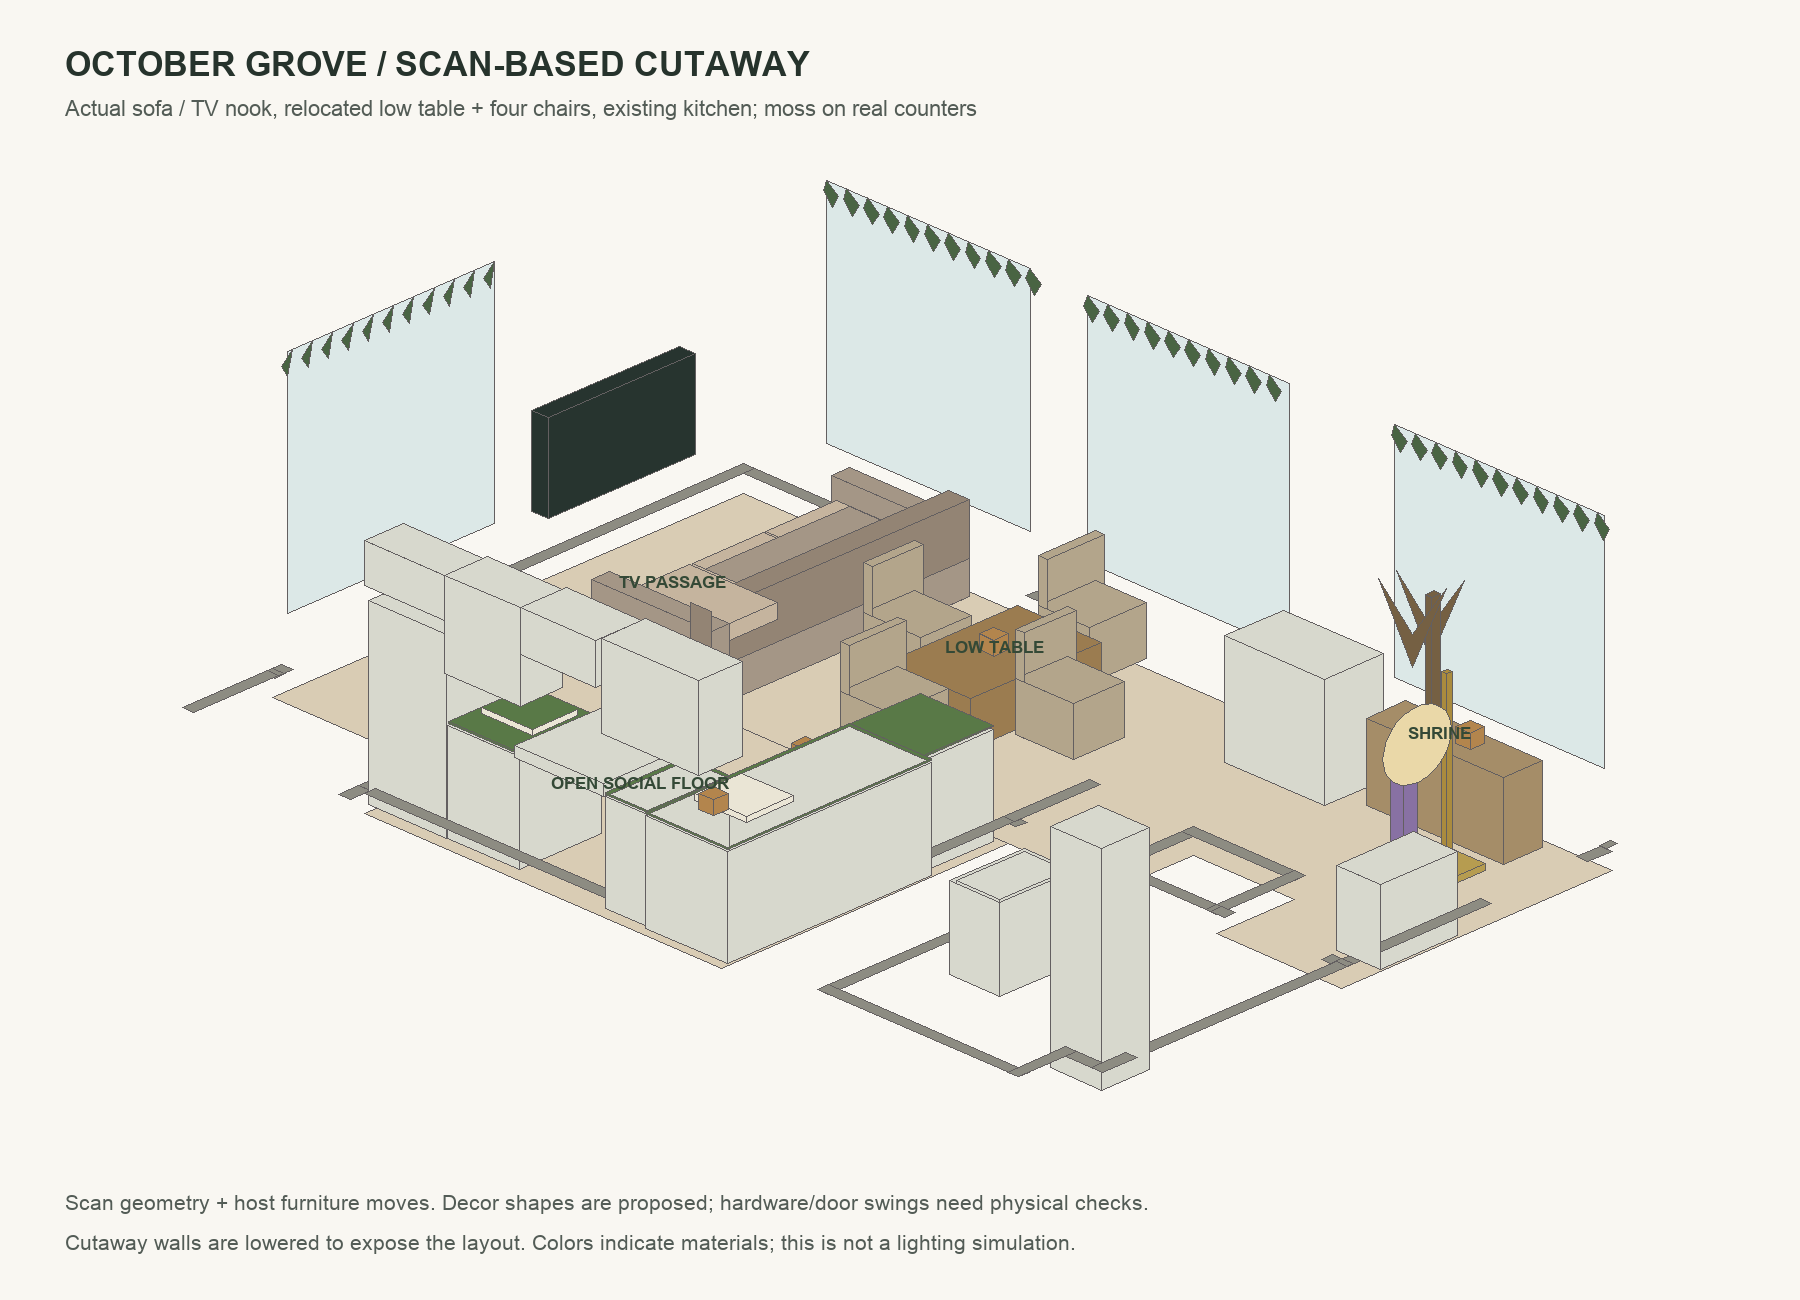
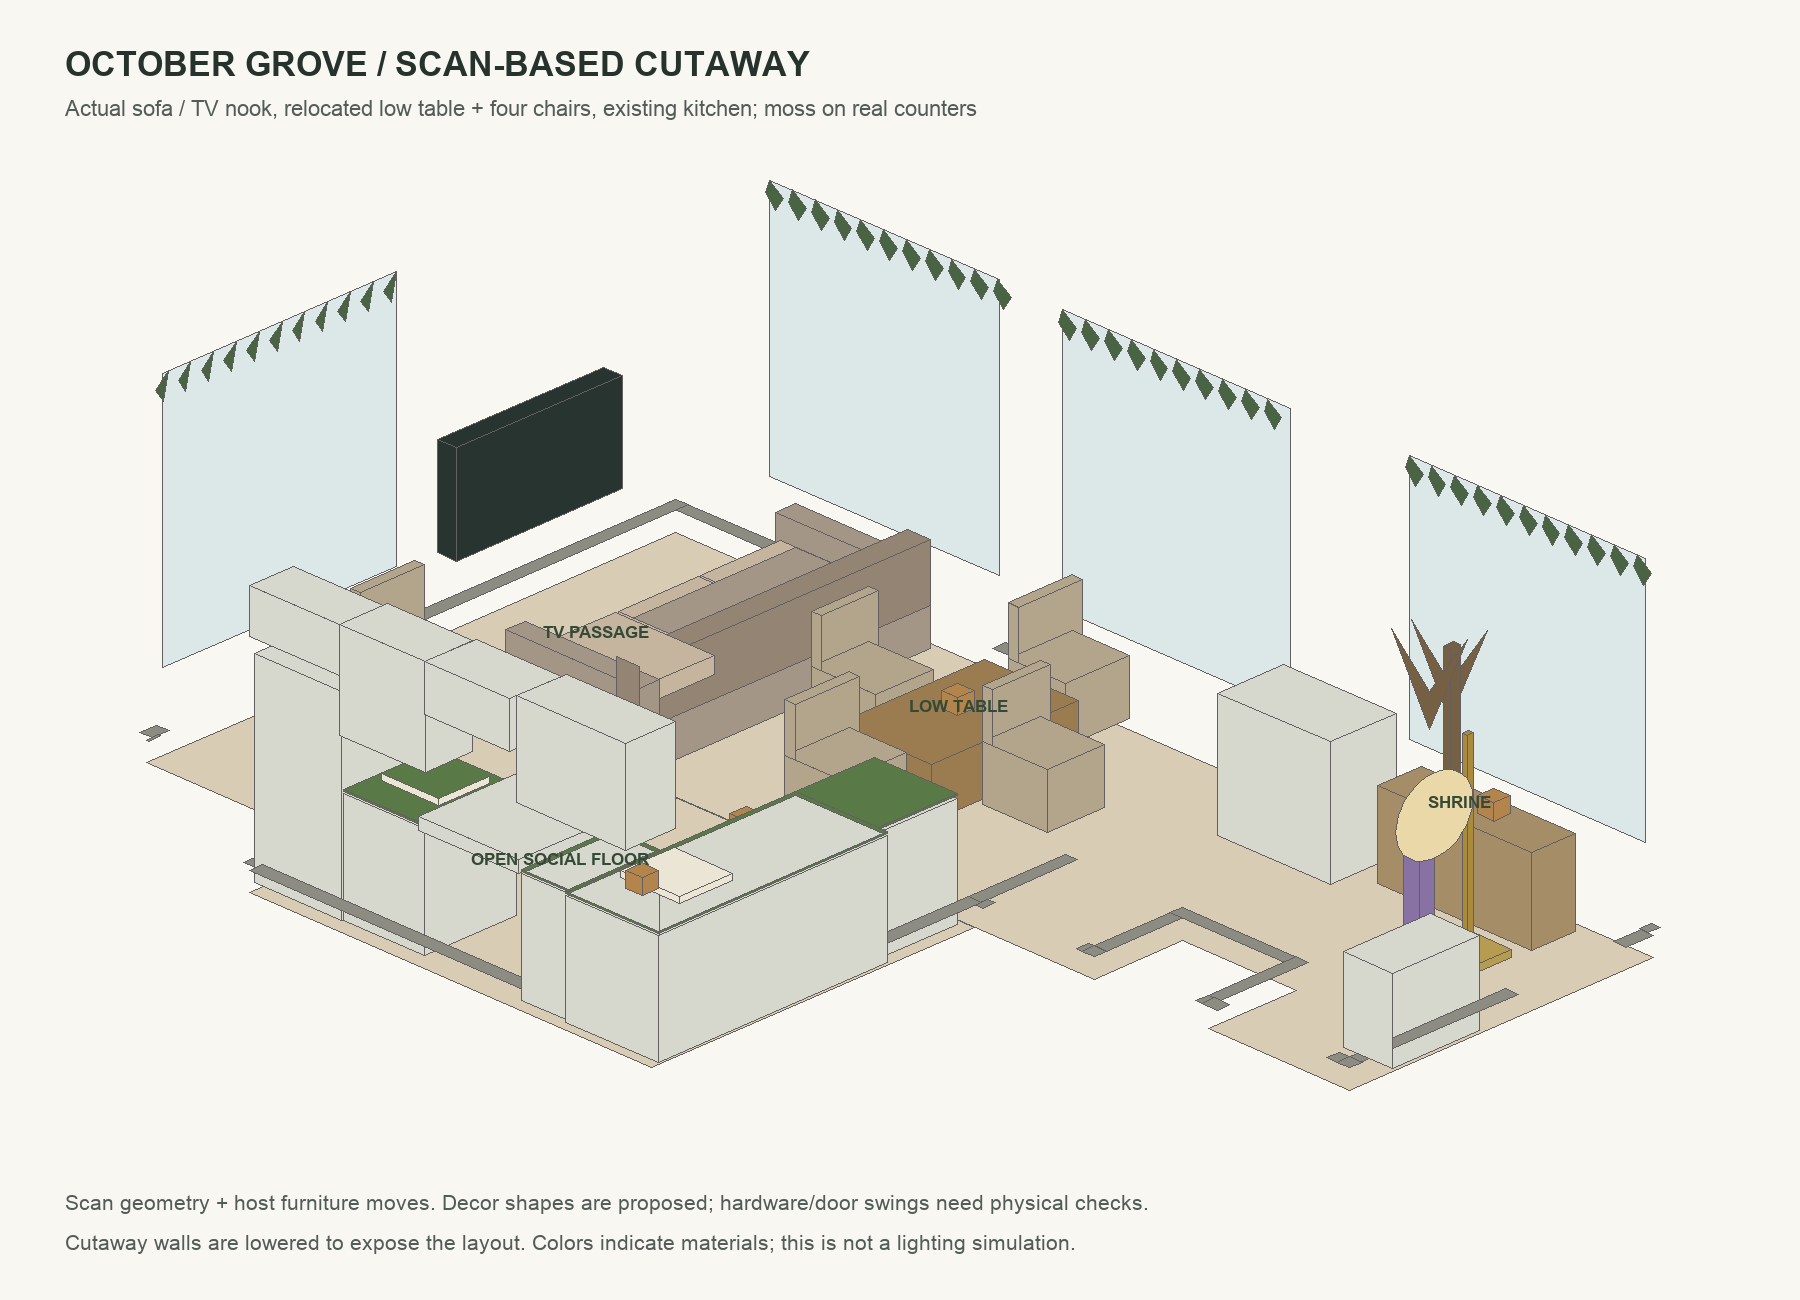
Reconcile decor budget and entity placements with the measured layout

Changed region(s): [[0.0622, 0.1231, 0.9333, 0.8615]]

diff --git a/operations/decisions.md b/operations/decisions.md
@@ -1,12 +1,14 @@
 # Decision log and open questions
 
-## October 21 • house decor execution proposal
+## October 21 • current house decor decisions and proposal
 
-Host requested a dedicated decor session, initial input then autonomous goal work, with shopping links and optional iPhone scan input. Goal activated in that session. **Confirmed host intake:** $1,000 decor including permanent lights; nothing new ordered; gold lamp/stand with full-color LIFX is the only decor inventory; furniture may move but stays inside the apartment, nightstands may enter closets; 2–4 full days; iPhone 16 Pro. Helpers not confirmed, room dimensions/photos pending. Existing Grove/Hollow/Moon Well direction preserved; no individual product purchase approval inferred.
+**Confirmed host instructions:** $1,000 decor including permanent lights; no new orders; gold tree/full-color LIFX is the only owned decor; 2–4 full days. Dining-height table is gone; coffee table goes to its former place with chairs around it, sofa closer to TV with walking gap. Accepted Hollow rear-right corner: upright bed at **15-in stored depth**, independent guardian, **49 × 29.5-in automated desk**, two speakers on desk, **no human DJ**. Bed support/leg removal remain physical dependencies, not a verified installation.
 
-[Current provisional plan](../decor/final-room-plan.md), [single $973.12 example basket](../decor/shopping-ready.md) and [Oct 21–30 schedule](../decor/setup-schedule.md) include one permanent Govee Basic + owned LIFX for purple, one bedroom two-PAR kit, a properly mounted moon or lightweight fallback, limited fabric and dry Moon Well. Keep bed flat absent proven internal storage. [Capture workflow](../decor/space-inputs/README.md): Polycam Floorplan on supported iPhone 16 Pro, dimensioned view/photos/furniture sizes; Floorplanner recommended for scaled 2D/3D layout comparisons. No account/model upload performed.
+**Latest fabric instruction:** buy **raw fabric, not ready-made curtains**, cover **all Hollow walls/windows**. Grove counters broadly covered in moss, with clean serving surfaces integrated; hanging vines, branches, stone and pumpkins. Host says visual decisions must follow the real apartment layout; generated atmospheric rooms are material/light references only.
 
-Fresh evidence: Oasis expanded specs now say 1000 K “Pure Red”–4000 K, not the old 2000–4000 K range; purple still not documented. Rose Brand 8 oz duvetyne is masking, not guaranteed blackout. See's coins and the checked LIFX 800-lm two-pack are sold out. These are sourcing findings, not changes to host preferences. No purchase, installation, device setting, third-party message or game implementation performed.
+[Current plan and actual-layout cutaways](../decor/final-room-plan.md), [single $991.98 basket](../decor/shopping-ready.md), [40-yd full-wall cut list](../decor/bedroom/draping/02-shopping-and-sample.md), [setup](../decor/setup-schedule.md). Proposal includes Big Z black plush velvet, large moss sheets/84-ft ivy, two sound-active PARs, one permanent Govee Basic + owned LIFX, handmade glowing Grove moon and dry Moon Well. Fabric shipping/opacity/mounts, upright-bed support, actual clearances and light/music modes still need physical checks.
+
+All 15 game entities have proposed locations: **11 Grove / 3 Hollow / 1 outside bath**, preserving five decor/five bought/five handmade. No game rules/code/IDs changed; incremental physical game costs remain separate. Raw scan processed locally without paid floor-plan export, new account or model upload. Read-only Chrome/primary-source offer checks and built-in image generation performed; no purchases, cart changes, messages, device changes or physical tests. [Task handoff](../decor/handoff-2026-10-21-detailed-decor.md).
 
 **Latest interactive decisions are recorded in the September 9 website entry below; September 4 remains the mechanics baseline.** Earlier dated succession notes remain history; use the [current design index](../interactive-game/README.md) for active requirements.
 Updated September 3, 2026. This file preserves context between sessions.

diff --git a/operations/task-tracker.md b/operations/task-tracker.md
@@ -2,17 +2,17 @@
 
 ## October 21 • decor execution status
 
-The [current decor basket](../decor/shopping-ready.md), [room plan/schematic](../decor/final-room-plan.md) and [Oct 21–30 setup schedule](../decor/setup-schedule.md) supersede September decor shopping deadlines below. Host confirms $1,000 including permanent lights, owned color LIFX only, no new orders, furniture staying inside, 2–4 full days and iPhone 16 Pro. Planning example $973.12; no purchases/tests. Room capture, measured quantities and mount/power tests remain pending.
+[Current plan / actual scan layout](../decor/final-room-plan.md), [single $991.98 basket](../decor/shopping-ready.md), [setup](../decor/setup-schedule.md), [handoff](../decor/handoff-2026-10-21-detailed-decor.md) supersede old decor quantities/deadlines below. Host ceiling $1,000 includes permanent lights. Plans/visuals/sourcing complete; no purchases/physical tests.
 
-| Task | Current status / next action | Revised target |
+| Task | Current status / next action | Target |
 |---|---|---|
-| SHOP-01 / SET-02 | Current offers, explicit shared allocations, costed provisional core and substitutions prepared | Oct 21 planning done; quantities still conditional |
-| OPS-01 / BUD-01 / SHOP-02 | Decor inventory/ceiling/time/furniture constraints confirmed; [Polycam + Floorplanner capture packet](../decor/space-inputs/README.md) ready. Geometry/household supplies/helper availability remain | Oct 21–22 room capture |
-| SHOP-03 / DRAPE-01–04 | Per-run formulas ready; actual spans/drop/wall finish/panel trial not done | Resolve Oct 23–24 |
-| LIGHT-LR / LIGHT-BED / BATH-08 | Proposed fixtures and fallback/reset tests documented; no test passed yet | Initial trials Oct 22–24, nine-hour run by Oct 25 |
-| BED-01 / PROP-01 | Keep-flat bed default; modest guardian bust or light-board fallback, support still unknown | Resolve by Oct 26 |
-| SHOP-04 / BUY-01 | Host orders after reviewing fit/inventory; recheck live sellers and delivered totals | Prefer receipt Oct 27; local fallback Oct 29 |
-| SET-03 | Staged scenic install, final routes and after-dark rehearsal | Oct 29–30 |
+| SHOP-01 / SET-02 | Detailed three-room plan, measured party layout/cutaways, all-15-entity placement and costed basket complete | Oct 21 planning done |
+| OPS-01 / BUD-01 / SHOP-02 | Scan processed; host furniture moves mapped. Tape scale, closet fit, outlets, actual wall/tub surfaces and household supplies remain | Oct 22–24 physical checks |
+| SHOP-03 / DRAPE-01–04 | Raw black velvet all-wall 40-yd cut list/supports priced; no ready-made bedroom curtains. Actual drop/opacity/shipping/24-h sample trial remain | Resolve before cutting/order |
+| LIGHT-LR / LIGHT-BED / BATH-08 | Budget two-PAR sound mode, steady guardian eyes, permanent violet lamp and cordless bath tests documented, untested | Receipt / trials Oct 24–27; nine-hour elapsed run |
+| BED-01 / PROP-01 | Upright corner accepted for plan; support still unresolved. Independent 3–5-hour guardian bust or flat-face fallback | Resolve before moving bed |
+| SHOP-04 / BUY-01 | Host verifies actual delivered totals/stock/arrival and orders; no agent checkout | Receipt target Oct 27, local fallback Oct 29 |
+| SET-03 | Full-wall fabric, broad counter moss, vines, scenery + after-dark route/game reach/light rehearsal | 24–32 hands-on h across 3–4 days; complete Oct 30 |
 
 **September 4 interactive scope:** [Current story tracker](../interactive-game/task-tracker.md) governs the 15-entity 5/5/5 plan, puzzle-earned Favor, costume voting, Summons and finale. September 9: approved narrative and [first website rehearsal](../interactive-game/app/handoff-2026-09-09-first-build.md) are deployed; physical playtesting, shopping and final event/admin work remain future tasks. Earlier dated story updates below are history.
 Updated September 3, 2026. Event October 31. Owners below are proposed roles, not recruited people. Priority: P0 essential, P1 high value, P2 optional.

diff --git a/operations/budget.md b/operations/budget.md
@@ -2,9 +2,11 @@
 
 ## October 21 • current decor planning estimate
 
-Host confirmed **$1,000 decor ceiling including permanent lights**, only owned gold stand/full-color LIFX, no new decor orders, 2–4 full days and furniture remaining inside the apartment. Use the [current decor basket](../decor/shopping-ready.md), not September catalog totals. **$973.12 provisional cash envelope** = $547.83 core product counts + $191.13 **hypothetical measured-fabric package** + $85 local/reuse gaps + $74.16 planning tax allowance + $25 shipping + $50 buffer. Includes one permanent Govee Basic; dimensions/mounting tests remain pending. Products are proposed within the confirmed ceiling, not a delivered quote or purchase. Without fabric the estimate is $764.78 and coverage unresolved; smaller three-panel example $872.32. Only $26.88 remains beyond included buffer; use documented scope cuts if measured costs rise.
+Host confirmed **$1,000 decor ceiling including permanent lights**, only owned gold tree/full-color LIFX, no new decor orders and 2–4 full days. Dining table now gone; other furniture relocated inside. Use the [single current basket](../decor/shopping-ready.md): **$991.98 planning envelope** = $734.16 merchandise + $75 local/reuse gaps + $72.82 planning tax + $60 shipping + $50 buffer. **$8.02 remains beyond the included buffer.** Actual fabric shipping/arrival, mount trial and delivered total remain unverified; not a purchase or final quote.
 
-The selected scope replaces the old six decor categories totaling **$705**, rather than being added to them; its tax/shipping/buffer replace the corresponding share of common contingency/logistics. Current branch/skull replacements total $60.49 within the basket, not an extra $59.93 cart. Shared moon/tree/guardian/Well/shrine installations are counted once under decor; game pays incremental NFC/mounting and its own figures. Sweets stay within food; no whole-floor covering or permanent-light package is included. At the $3,000 total ceiling the full decor example leaves $2,026.88 for all other costs; the $1,800 baseline and costume allocation below still need an overall host reconciliation. [Room plan](../decor/final-room-plan.md) · [Setup schedule](../decor/setup-schedule.md).
+Includes 40 yd raw black velvet covering all Hollow walls/windows, 42 fabric hooks/48 clips, three broad counter moss sheets, hanging ivy, two budget PARs, one permanent Govee Basic plus owned LIFX, handmade light-backed Grove moon and Moon Well. Ready-made bedroom curtains and the earlier hypothetical $973.12 package are superseded. [Cut schedule](../decor/bedroom/draping/02-shopping-and-sample.md) · [Scan-based layout / 15 entities](../decor/final-room-plan.md) · [24–32-hour setup](../decor/setup-schedule.md).
+
+This **replaces** old six decor allowances totaling $705 and their tax/logistics/contingency share; do not add the historic $59.93 unpaid cart. Active branch + three pendants $38.94 are already included; wolf skull optional/excluded. Whole moon/tree/guardian/Well/shrine installations charged once; game pays small figures/tags/premade markers/incremental bases. Sweets remain food. At the $3,000 party ceiling, $2,008.02 remains for other costs. Costume and total-party allocation still require overall reconciliation; no additional permanent-light bundle, floor covering, premium rig or bed-support hardware silently added.
 
 ## October 21 • confirmed host costume ceiling
 

diff --git a/decor/handoff-2026-10-21-detailed-decor.md b/decor/handoff-2026-10-21-detailed-decor.md
@@ -13,3 +13,12 @@
 - Dependencies: game owns bought small figures/tags/premade stickers/bases/phone validation; scenery counted once in decor. Proposed allocation 11 Grove / 3 Hollow / 1 bath threshold preserves 5/5/5 identities. Music owns playback; no new control code. Food/supplies own wrapped gifts.
 - Unresolved physical cost risk: heavy bed support or a new drape rig is not silently funded; use reuse/flat-face guardian and documented scope cuts. Fabric shipping/opacity and actual delivered total not guaranteed.
 - Commits: focused main checkpoint(s) reported in final response; no push. Unrelated costume changes preserved.
+
+## Verification and checkpoint
+
+- Checkpoint **0bd00cb** on main saved the decor plan, basket, materials/atmospheric assets and scan-derived layout/cutaways. Final follow-up reconciles shared operations and physical-game placement crosslink, improves cutaway readability and records checks. Sibling costume commit **85fa015** preserved.
+- Local Markdown links checked across this task's changed documents; all 21 basket line calculations verified: $734.16 merchandise, $75 gaps, $72.82 planning tax, $60 shipping, $50 buffer = **$991.98**.
+- Fifteen unique entity slots checked, five in each category; coordinate markers count fifteen. Desk/bed bounds and 0.30-m guardian band checked against scan-based room bounds. This is geometry verification, not bed-support certification or an occupancy test.
+- SVG XML and all six selected PNG assets opened/verified; materials and room images visually inspected. Rejected AI layout edits are not selected/persisted as deliverables. Direct cutaways preserve real footprint; pale window planes and lowered walls expose the layout.
+- git diff --check passed. No raw GLB/screenshot or account UI image tracked. Actual shipping/arrival, opacity, bed/storage/mounting, electrical and nine-hour tests remain future host execution.
+- Shared changes: operations budget/decisions/cart/tracker; one physical/entity-plan.md distribution paragraph points to current measured proposal. No game code or costume content edited.

diff --git a/interactive-game/physical/entity-plan.md b/interactive-game/physical/entity-plan.md
@@ -44,7 +44,7 @@ Use the [bark-spirit texture techniques](moon-touchpoints.md) only as optional a
 
 The [figurine/base brief](figurine-construction.md) governs purchased-figure mounting; [separate moon touchpoints](moon-touchpoints.md) suit large decor and stick/straw pieces. Every entity gets one nearby, clear, reachable target. The golden lamp and powered DJ scenery need final-surface scan tests; an ordinary tag cannot be assumed to work against metal.
 
-Provisional distribution: **9 living-room checkpoints, 5 bedroom perimeter checkpoints and 1 outside the bathroom**. For example, living room: DEC-01/02/05, three bought and three made; bedroom: DEC-03, two bought and two made; bathroom threshold: DEC-04. This is a traffic-planning example, not a measured placement map. Rebalance after photos and a walk-through.
+**October 21 decor placement proposal:** [actual scan-based room plan and all fifteen positions](../../decor/final-room-plan.md#place-all-15-entities) now recommends **11 Grove / 3 Hollow / 1 outside bathroom**, preserving 5/5/5. Hollow contains DEC-03 plus flat MAKE-03/05 on independent wall mounts, minimizing extra stands/queues on its small dance floor. All five bought figures use existing dry Grove surfaces. This replaces the earlier illustrative 9/5/1 split; actual reach/scan/traffic tests remain pending. No game IDs, puzzles, purchases or NFC implementation changed.
 
 Keep all targets in public party areas, at a height reachable without bending into crowds or climbing. No targets in drawers, coats, bedding, medicine storage, drinks, electrical gear or behind furniture. Separate tags enough that one intentional tap has one destination. Provide simple helper assistance for unsupported phones; physical QR fallback remains excluded. Invitation QRs are a separate website feature.
 

diff --git a/operations/shopping/CART.md b/operations/shopping/CART.md
@@ -1,6 +1,6 @@
-# Wood and skull sample cart
+# Decor shopping status and historical wood/skull cart
 
-**October 21 current status:** use the [single current decor basket](../../decor/shopping-ready.md). **Host confirms nothing new ordered; only the gold lamp/stand with full-color LIFX is owned decor.** The branch/three raven skulls/wolf remain proposed at **$60.49 before tax** inside the basket. The signed-in Amazon cart badge showed zero; no cart changes/purchase made by this task. The September snapshot below is history, not a live cart or proof of ownership.
+**October 21 current:** [single detailed decor basket](../../decor/shopping-ready.md), **$991.98 planning envelope** including shipping/buffer. Host confirms no new orders, only gold tree/full-color LIFX owned. Active branch + three raven pendants **$38.94 before tax**, included once; wolf skull now optional/excluded. Raw black fabric covers all bedroom walls; no ready-made bedroom curtain panels. No cart change, checkout or purchase by this task. The September cart snapshot below is history, not a live cart or ownership record.
 
 Checked September 3, 2026. **Added to the actual Amazon cart: three line items, $59.93 before tax. No checkout or purchase.**
 
